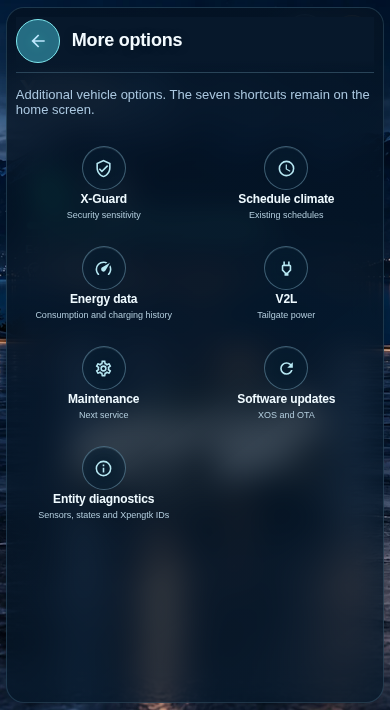
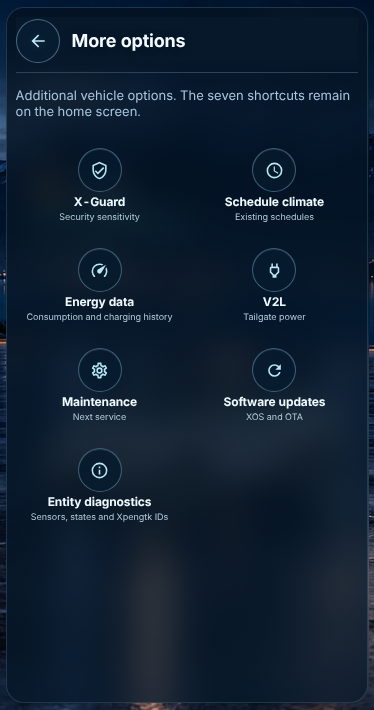
docs: retake location, more options, diagnostics and charge limit screenshots with real G6 data

diff --git a/README.md b/README.md
@@ -9,7 +9,7 @@ A Home Assistant dashboard card for **XPENG** cars, built on the Xpengtk integra
 
 ## Screenshots
 
-**Home, charging, climate and maintenance** are captured from the card with data from a real 2026 XPENG G6 in Home Assistant: battery, range, odometer, tire pressures, service date and cabin temperature. The car wasn't charging at the time, so the charging power, current, voltage and time left in the charging images are illustrative. Location, charge controls, diagnostics and more options use sample values, and the map is a placeholder outside Home Assistant.
+All screenshots are captured from the card with data from a real 2026 XPENG G6 in Home Assistant: battery, range, odometer, tire pressures, service date, cabin temperature and the entity list. The car wasn't charging at the time, so the charging power, current, voltage and time left are illustrative. The map is a drawn placeholder, so no real location is shown; in Home Assistant the card uses the native map.
 
 | Screen | Desktop | Phone |
 | --- | --- | --- |

diff --git a/docs/screenshots/README.md b/docs/screenshots/README.md
@@ -1,6 +1,6 @@
 # XPENG G6 — Screenshot gallery
 
-The fourteen PNGs show the **actual card running in Chromium**. Home, charging, climate and maintenance (desktop and phone) use entity states from a real 2026 G6 in Home Assistant; the charging power, current, voltage and time left are illustrative because the car wasn't charging. The other screenshots use sample values, and the Location screenshot uses a map stub.
+The fourteen PNGs show the **actual card running in Chromium**. All of them use entity states from a real 2026 G6 in Home Assistant; the charging power, current, voltage and time left are illustrative because the car wasn't charging. The Location screenshot uses a drawn placeholder map, so no real location is shown.
 
 | View | Desktop | iPhone-sized |
 | --- | --- | --- |
